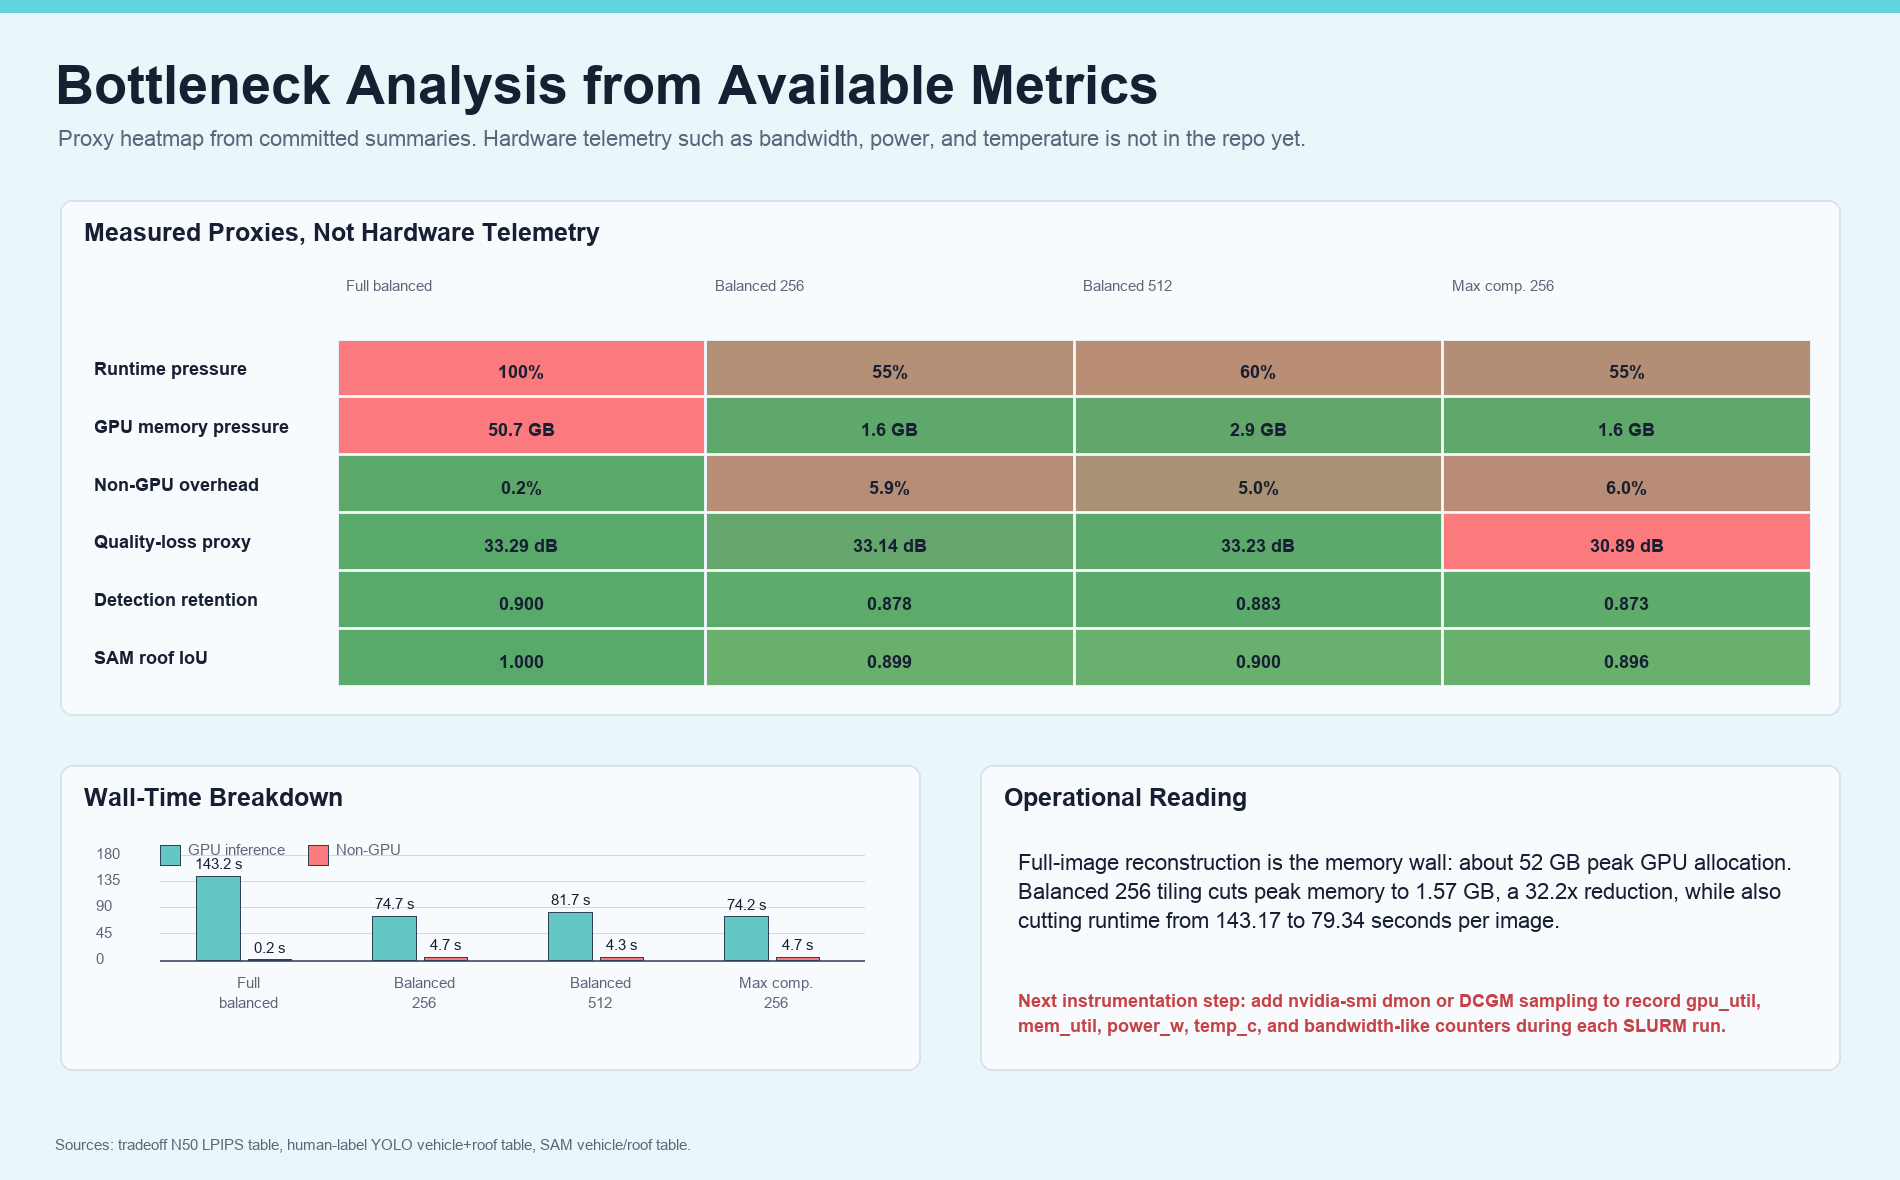
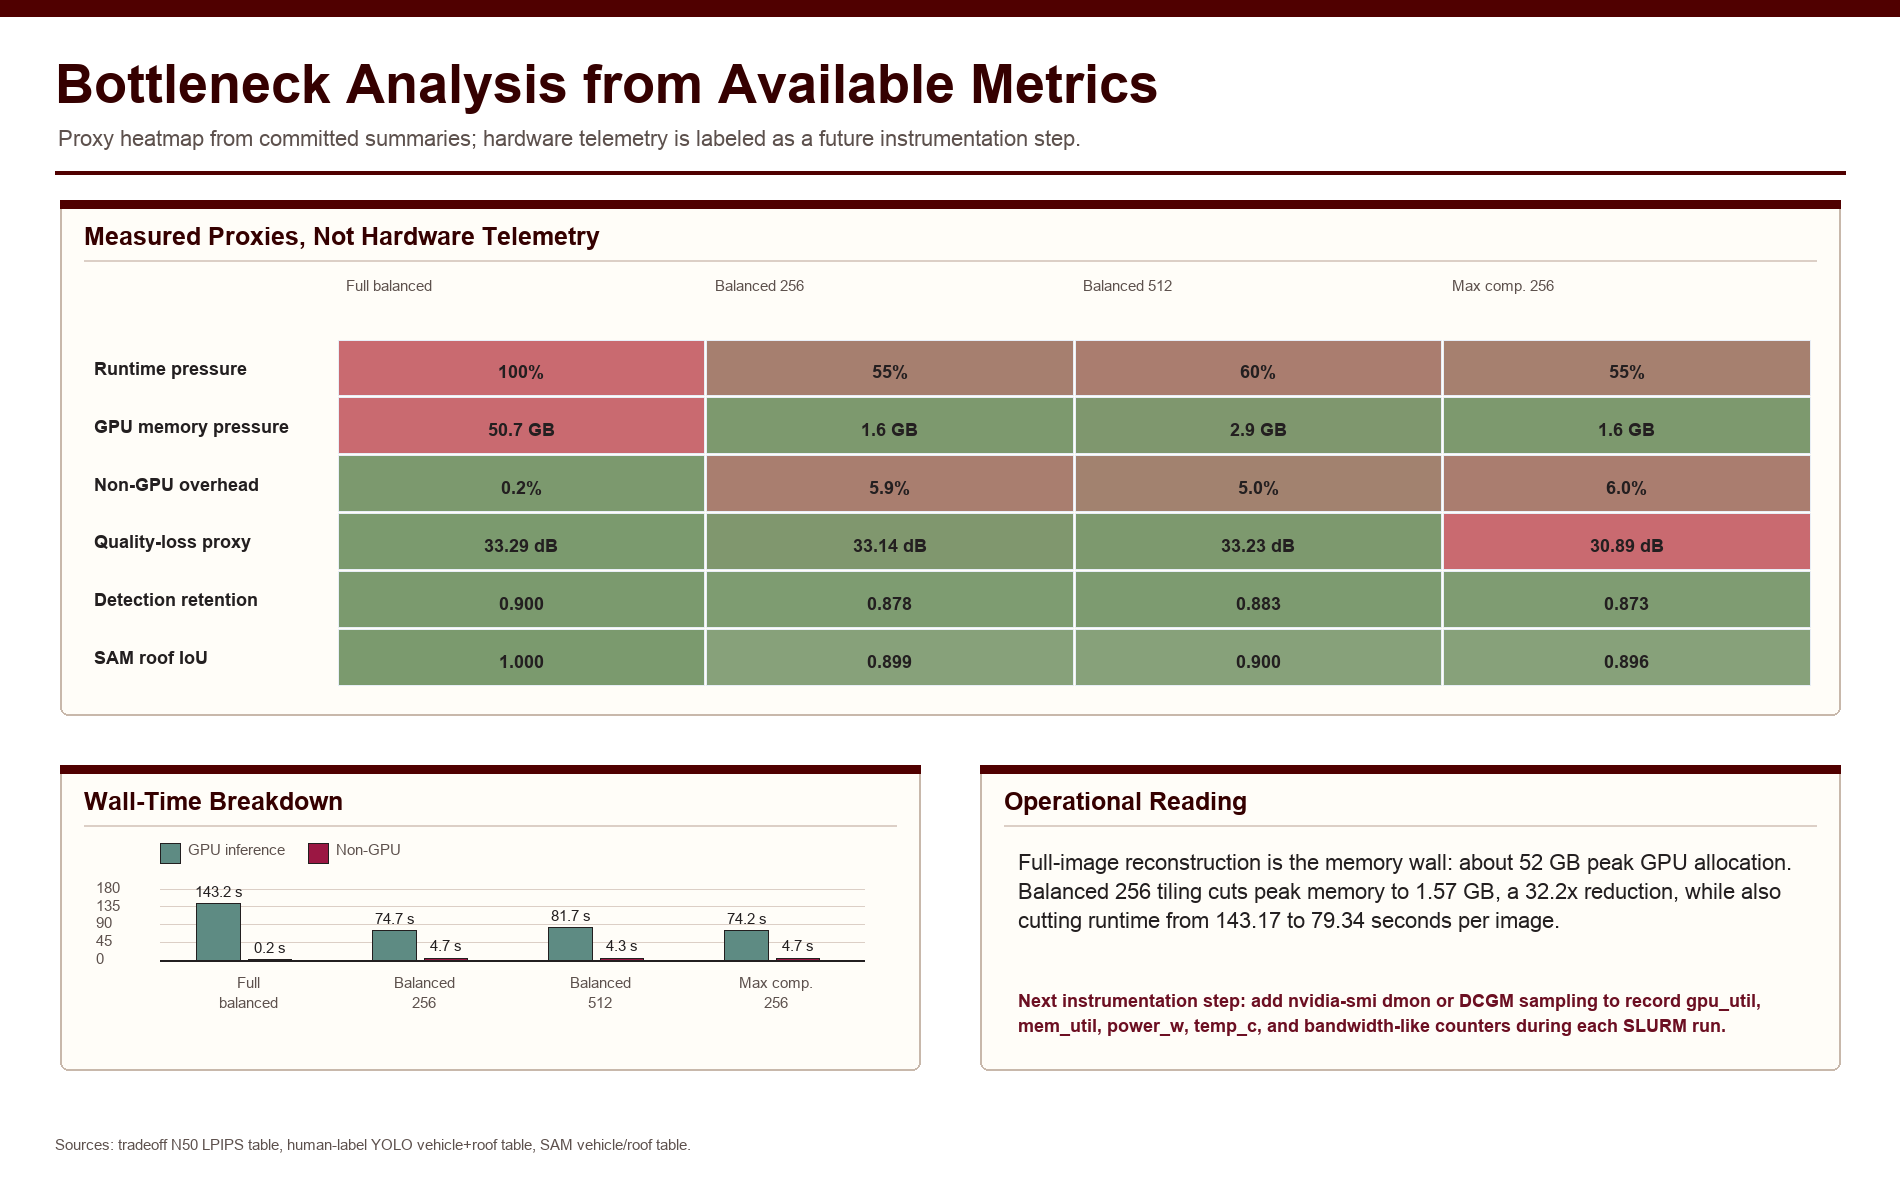
Restyle SC26 figure panels for poster

diff --git a/scripts/generate_sc26_figures.py b/scripts/generate_sc26_figures.py
@@ -27,20 +27,24 @@ SAM_ROOF = REPO / "results/2026-06-12-sam-vehicle-roof-human-n50/tables/sam_roof
 
 
 COLORS = {
-    "bg": "#EAF7FA",
-    "panel": "#F8FBFD",
-    "ink": "#172033",
-    "muted": "#5B667A",
-    "grid": "#CFD9E6",
-    "navy": "#0B1B32",
-    "teal": "#63C7C3",
-    "teal_dark": "#168B87",
-    "coral": "#FA7A7D",
-    "coral_dark": "#C54247",
-    "blue": "#4C78A8",
-    "green": "#59A96A",
-    "yellow": "#F4D35E",
-    "orange": "#F58518",
+    "bg": "#FFFFFF",
+    "panel": "#FFFDF8",
+    "panel_alt": "#F7EEE8",
+    "ink": "#231F20",
+    "muted": "#5D514D",
+    "grid": "#DCCFC6",
+    "border": "#C8B8AB",
+    "navy": "#500000",
+    "maroon": "#500000",
+    "maroon_dark": "#350000",
+    "teal": "#5E8B83",
+    "teal_dark": "#3F6F67",
+    "coral": "#9B1743",
+    "coral_dark": "#6C0F22",
+    "blue": "#6E7781",
+    "green": "#7B9A6E",
+    "yellow": "#E4C15A",
+    "orange": "#B45F2A",
     "white": "#FFFFFF",
 }
 
@@ -101,9 +105,10 @@ def fnum(value: str | float | int) -> float:
 def image(width: int, height: int, title: str, subtitle: str) -> tuple[Image.Image, ImageDraw.ImageDraw]:
     img = Image.new("RGB", (width, height), color(COLORS["bg"]))
     draw = ImageDraw.Draw(img)
-    draw.rectangle((0, 0, width, 12), fill=color("#63D3DD"))
-    draw.text((55, 55), title, font=FONTS["title"], fill=color(COLORS["ink"]))
+    draw.rectangle((0, 0, width, 16), fill=color(COLORS["maroon"]))
+    draw.text((55, 54), title, font=FONTS["title"], fill=color(COLORS["maroon_dark"]))
     draw.text((58, 126), subtitle, font=FONTS["body"], fill=color(COLORS["muted"]))
+    draw.line((55, 172, width - 55, 172), fill=color(COLORS["maroon"]), width=4)
     return img, draw
 
 
@@ -158,8 +163,16 @@ def multiline(
 
 def panel(draw: ImageDraw.ImageDraw, xywh: tuple[int, int, int, int], title: str) -> tuple[int, int, int, int]:
     x, y, w, h = xywh
-    draw.rounded_rectangle((x, y, x + w, y + h), radius=12, fill=color(COLORS["panel"]), outline=color("#D9E2ED"), width=2)
-    draw.text((x + 24, y + 18), title, font=FONTS["h2"], fill=color(COLORS["ink"]))
+    draw.rounded_rectangle(
+        (x, y, x + w, y + h),
+        radius=8,
+        fill=color(COLORS["panel"]),
+        outline=color(COLORS["border"]),
+        width=2,
+    )
+    draw.rectangle((x, y, x + w, y + 8), fill=color(COLORS["maroon"]))
+    draw.text((x + 24, y + 22), title, font=FONTS["h2"], fill=color(COLORS["maroon_dark"]))
+    draw.line((x + 24, y + 60, x + w - 24, y + 60), fill=color(COLORS["grid"]), width=2)
     return x + 28, y + 70, w - 56, h - 98
 
 
@@ -180,7 +193,7 @@ def draw_bar_chart(
     lower_is_better: bool = True,
 ) -> None:
     x, y, w, h = rect
-    plot_left, plot_top = x + 70, y + 16
+    plot_left, plot_top = x + 70, y + 34
     plot_right, plot_bottom = x + w - 20, y + h - 86
     ymax = ymax or max(values) * 1.18
     if ymax <= 1.2:
@@ -194,14 +207,14 @@ def draw_bar_chart(
         draw.line((plot_left, gy, plot_right, gy), fill=color(COLORS["grid"]), width=1)
         tick = ymax * i / 4
         draw.text((x + 8, gy - 10), tick_fmt.format(tick), font=FONTS["tiny"], fill=color(COLORS["muted"]))
-    draw.line((plot_left, plot_bottom, plot_right, plot_bottom), fill=color(COLORS["muted"]), width=2)
+    draw.line((plot_left, plot_bottom, plot_right, plot_bottom), fill=color(COLORS["ink"]), width=2)
     n = len(values)
     slot = (plot_right - plot_left) / n
     for i, (label, value) in enumerate(zip(labels, values)):
         bw = slot * 0.58
         bx = plot_left + i * slot + (slot - bw) / 2
         by = plot_bottom - (plot_bottom - plot_top) * value / ymax
-        draw.rounded_rectangle((bx, by, bx + bw, plot_bottom), radius=5, fill=color(bar_colors[i]), outline=color("#314155"), width=2)
+        draw.rounded_rectangle((bx, by, bx + bw, plot_bottom), radius=4, fill=color(bar_colors[i]), outline=color(COLORS["ink"]), width=2)
         value_text = f"{fmt.format(value)}{unit}"
         tw, _ = text_size(draw, value_text, FONTS["small_bold"])
         draw.text((bx + bw / 2 - tw / 2, by - 28), value_text, font=FONTS["small_bold"], fill=color(COLORS["ink"]))
@@ -209,7 +222,8 @@ def draw_bar_chart(
             lw, _ = text_size(draw, line, FONTS["tiny"])
             draw.text((bx + bw / 2 - lw / 2, plot_bottom + 14 + li * 20), line, font=FONTS["tiny"], fill=color(COLORS["muted"]))
     note = "lower is better" if lower_is_better else "higher is better"
-    draw.text((plot_right - 145, plot_top - 8), note, font=FONTS["tiny"], fill=color(COLORS["muted"]))
+    note_w, _ = text_size(draw, note, FONTS["tiny"])
+    draw.text((plot_right - note_w, y + 4), note, font=FONTS["tiny"], fill=color(COLORS["muted"]))
 
 
 def draw_grouped_bars(
@@ -223,7 +237,7 @@ def draw_grouped_bars(
     fmt: str = "{:.1f}",
 ) -> None:
     x, y, w, h = rect
-    plot_left, plot_top = x + 72, y + 20
+    plot_left, plot_top = x + 72, y + 54
     plot_right, plot_bottom = x + w - 28, y + h - 82
     ymax = ymax or max(max(vals) for _, vals, _ in series) * 1.18
     for i in range(5):
@@ -231,7 +245,7 @@ def draw_grouped_bars(
         draw.line((plot_left, gy, plot_right, gy), fill=color(COLORS["grid"]), width=1)
         tick = ymax * i / 4
         draw.text((x + 8, gy - 10), f"{tick:.0f}", font=FONTS["tiny"], fill=color(COLORS["muted"]))
-    draw.line((plot_left, plot_bottom, plot_right, plot_bottom), fill=color(COLORS["muted"]), width=2)
+    draw.line((plot_left, plot_bottom, plot_right, plot_bottom), fill=color(COLORS["ink"]), width=2)
     n = len(labels)
     slot = (plot_right - plot_left) / n
     bar_w = slot * 0.58 / len(series)
@@ -241,7 +255,7 @@ def draw_grouped_bars(
             value = vals[i]
             bx = group_x + si * bar_w
             by = plot_bottom - (plot_bottom - plot_top) * value / ymax
-            draw.rectangle((bx, by, bx + bar_w * 0.86, plot_bottom), fill=color(c), outline=color("#314155"), width=1)
+            draw.rectangle((bx, by, bx + bar_w * 0.86, plot_bottom), fill=color(c), outline=color(COLORS["ink"]), width=1)
             if i == n - 1 or len(labels) <= 4:
                 txt = f"{fmt.format(value)}{unit}"
                 tw, _ = text_size(draw, txt, FONTS["tiny"])
@@ -250,9 +264,10 @@ def draw_grouped_bars(
             lw, _ = text_size(draw, line, FONTS["tiny"])
             draw.text((plot_left + i * slot + slot / 2 - lw / 2, plot_bottom + 14 + li * 20), line, font=FONTS["tiny"], fill=color(COLORS["muted"]))
     lx = plot_left
+    legend_y = y + 8
     for name, _, c in series:
-        draw.rectangle((lx, plot_top - 10, lx + 20, plot_top + 10), fill=color(c), outline=color("#314155"))
-        draw.text((lx + 28, plot_top - 14), name, font=FONTS["tiny"], fill=color(COLORS["muted"]))
+        draw.rectangle((lx, legend_y, lx + 20, legend_y + 20), fill=color(c), outline=color(COLORS["ink"]))
+        draw.text((lx + 28, legend_y - 2), name, font=FONTS["tiny"], fill=color(COLORS["muted"]))
         lx += 148
 
 
@@ -264,8 +279,8 @@ def blend(c1: str, c2: str, t: float) -> tuple[int, int, int]:
 def heat_color(value: float, high_good: bool) -> tuple[int, int, int]:
     v = max(0.0, min(1.0, value))
     if high_good:
-        return blend("#FBEA8A", COLORS["green"], v)
-    return blend(COLORS["green"], COLORS["coral"], v)
+        return blend("#F1DDE4", COLORS["green"], v)
+    return blend(COLORS["green"], "#C96A70", v)
 
 
 def draw_heatmap(
@@ -338,7 +353,7 @@ def render_platform_table() -> Path:
         "What can be drawn from rayford295/sc26-cdc-deltaai today, using committed result summaries.",
     )
     x, y, w, h = 70, 210, 1660, 650
-    draw.rounded_rectangle((x, y, x + w, y + h), radius=12, fill=color(COLORS["panel"]), outline=color("#B7C6D8"), width=3)
+    draw.rounded_rectangle((x, y, x + w, y + h), radius=8, fill=color(COLORS["panel"]), outline=color(COLORS["border"]), width=3)
     headers = ["Evidence lane", "DeltaAI GH200", "Delta H200", "Not measured in repo"]
     col_w = [300, 470, 430, 460]
     rows = [
@@ -371,15 +386,15 @@ def render_platform_table() -> Path:
     cursor_y = y
     cursor_x = x
     for i, header in enumerate(headers):
-        draw.rectangle((cursor_x, cursor_y, cursor_x + col_w[i], cursor_y + row_h[0]), fill=color(COLORS["navy"]), outline=color("#B7C6D8"))
+        draw.rectangle((cursor_x, cursor_y, cursor_x + col_w[i], cursor_y + row_h[0]), fill=color(COLORS["navy"]), outline=color(COLORS["border"]))
         center_text(draw, (cursor_x, cursor_y, cursor_x + col_w[i], cursor_y + row_h[0]), header, FONTS["body_bold"], COLORS["white"])
         cursor_x += col_w[i]
     cursor_y += row_h[0]
     for ri, row in enumerate(rows):
         cursor_x = x
-        fill = "#FFFFFF" if ri % 2 == 0 else "#F1F7FA"
+        fill = "#FFFFFF" if ri % 2 == 0 else COLORS["panel_alt"]
         for ci, cell in enumerate(row):
-            draw.rectangle((cursor_x, cursor_y, cursor_x + col_w[ci], cursor_y + row_h[ri + 1]), fill=color(fill), outline=color("#B7C6D8"))
+            draw.rectangle((cursor_x, cursor_y, cursor_x + col_w[ci], cursor_y + row_h[ri + 1]), fill=color(fill), outline=color(COLORS["border"]))
             fnt = FONTS["body_bold"] if ci == 0 else FONTS["small"]
             multiline(draw, (cursor_x + 18, cursor_y + 20), cell, fnt, COLORS["ink"] if ci == 0 else COLORS["muted"], col_w[ci] - 36, 6)
             cursor_x += col_w[ci]
@@ -401,7 +416,7 @@ def render_performance_dashboard() -> Path:
         width,
         height,
         "CDC Reconstruction Performance Dashboard",
-        "Measured DeltaAI GH200 results from the formal N50 compression-setting x tile-size run.",
+        "Measured DeltaAI GH200 results from the N50 compression-setting x tile-size run.",
     )
     p1 = panel(draw, (60, 200, 860, 450), "Runtime per Image")
     draw_bar_chart(
@@ -460,7 +475,7 @@ def render_performance_dashboard() -> Path:
         fmt="{:.3f}",
         lower_is_better=False,
     )
-    draw.text((p4[0] + 502, p4[1] + 15), "YOLO vehicle+roof, conf=0.25", font=FONTS["tiny"], fill=color(COLORS["muted"]))
+    draw.text((p4[0] + 12, p4[1] + 4), "Metric: YOLO vehicle+roof mAP@0.5, conf=0.25", font=FONTS["tiny"], fill=color(COLORS["muted"]))
     source(draw, "Sources: results/2026-06-05-tradeoff-n50-lpips and results/2026-06-12-yolo-vehicle-roof-human-n50.", width, height)
     out = OUT_DIR / "sc26_cdc_performance_dashboard.png"
     img.save(out)
@@ -602,7 +617,7 @@ def render_bottleneck_proxy() -> Path:
         width,
         height,
         "Bottleneck Analysis from Available Metrics",
-        "Proxy heatmap from committed summaries. Hardware telemetry such as bandwidth, power, and temperature is not in the repo yet.",
+        "Proxy heatmap from committed summaries; hardware telemetry is labeled as a future instrumentation step.",
     )
     hm = panel(draw, (60, 200, 1780, 515), "Measured Proxies, Not Hardware Telemetry")
     draw_heatmap(draw, hm, rows, labels, texts)
